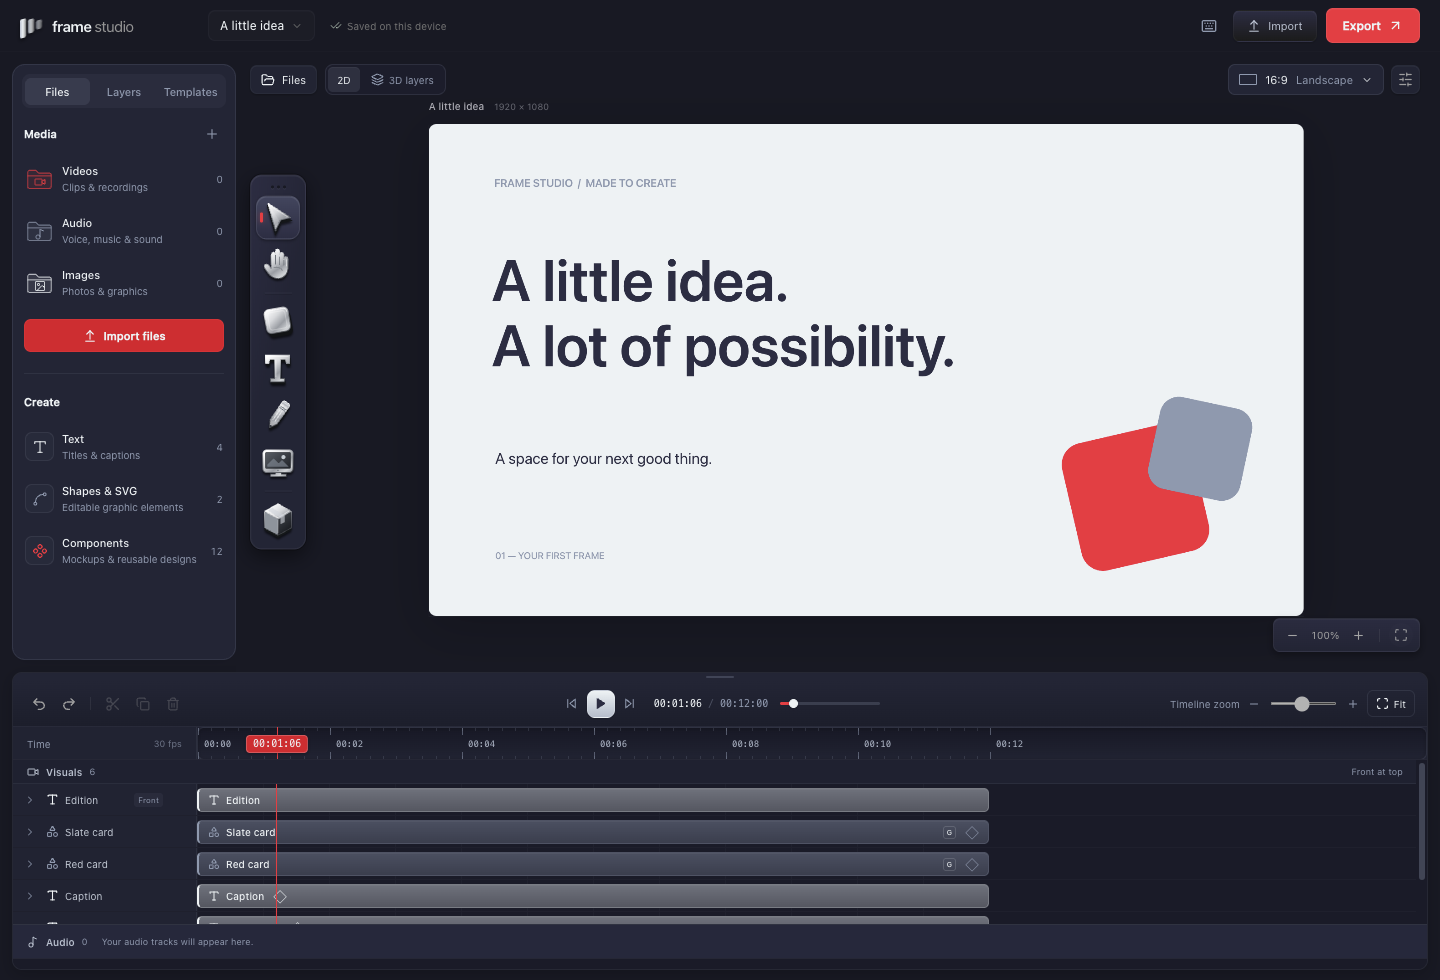
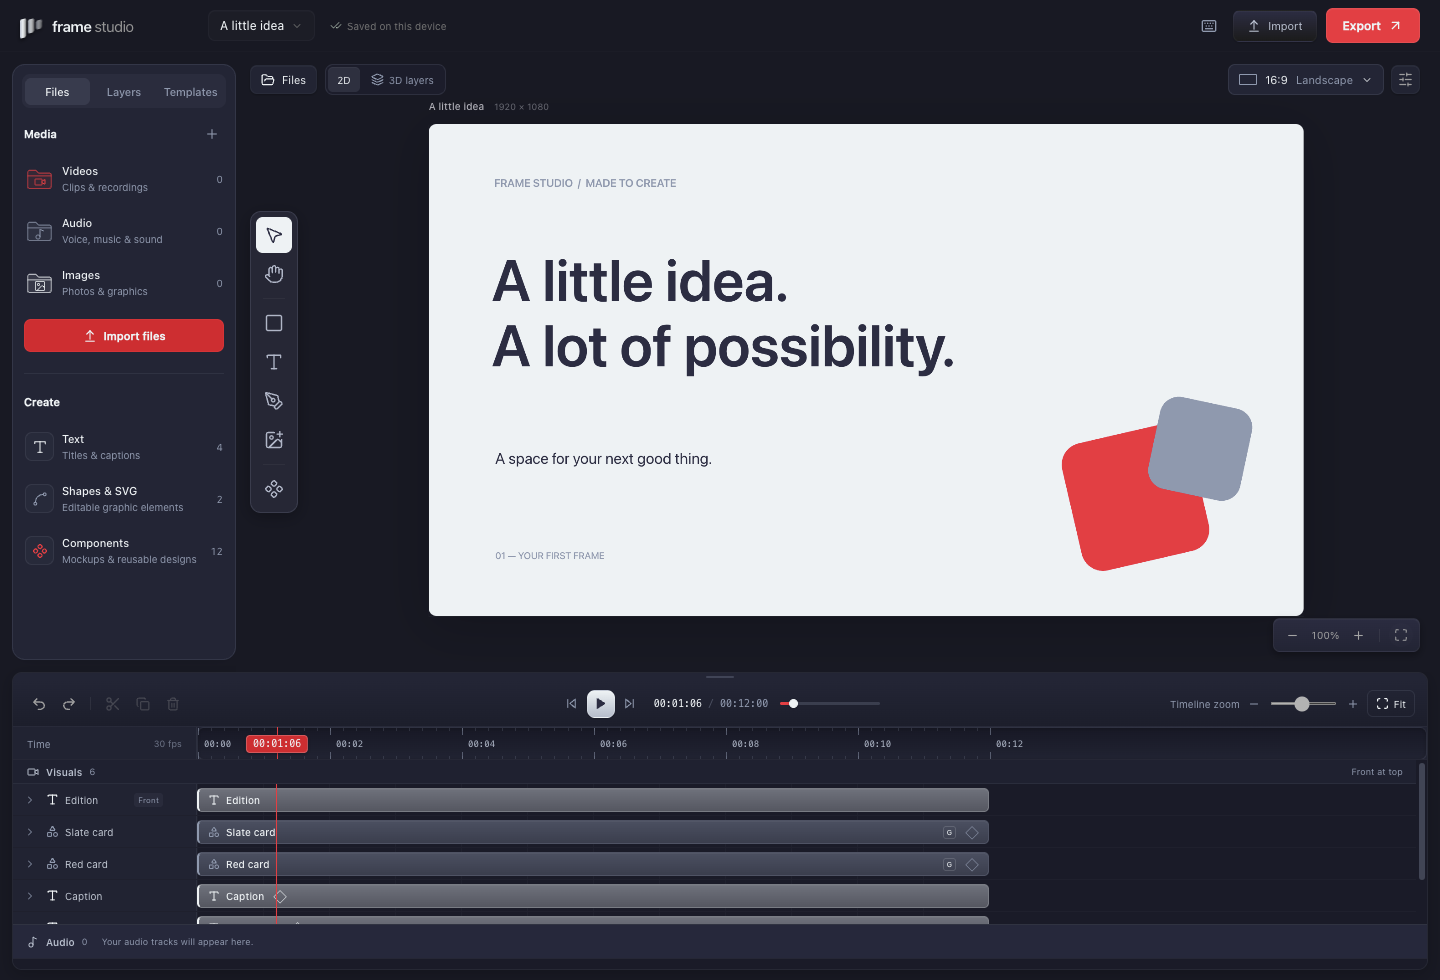
Document verified image tools and refresh native previews

Changed region(s): [[0.1562, 0.1837, 0.2188, 0.551]]

diff --git a/tests/editor.e2e.ts b/tests/editor.e2e.ts
@@ -247,7 +247,7 @@ test('imports SVG pieces and edits one without changing the other', async ({ pag
   await page.getByRole('tab', { name: 'Layers', exact: true }).click();
   await page.getByRole('button', { name: 'Badge dot', exact: true }).click();
   await page.getByRole('spinbutton', { name: 'X', exact: true }).fill('500');
-  await page.getByLabel('Element color').fill('#112233');
+  await page.getByLabel('Element color', { exact: true }).fill('#112233');
 
   const saved = await saveProject(page);
   const pieces = saved.layers.filter((layer) => layer.kind === 'svg');
@@ -1509,7 +1509,8 @@ test('image color replacement preserves source and unrelated pixels with exact h
 test('locked image tools cannot modify the image', async ({ page }) => {
   const fixture = await imageToolsFixture(page, true);
   await openProjectFixture(page, fixture);
-  await page.getByRole('button', { name: 'Timeline clip Two colors', exact: true }).click();
+  await page.getByRole('tab', { name: 'Layers', exact: true }).click();
+  await page.getByRole('button', { name: 'Two colors', exact: true }).click();
   const properties = page.getByRole('complementary', { name: 'Properties', exact: true });
   await expect(
     properties.getByRole('button', { name: 'Ellipse mask', exact: true }),

diff --git a/docs/project-format.md b/docs/project-format.md
@@ -39,9 +39,7 @@ The selected preset name and strength are inferred from the stored values. Match
 
 Motion recipe names likewise do not add fields. None, Gentle fade, Float, Slide, and Pop set `animation`, `animationDuration`, `animationDelay`, `animationEasing`, and `exitDuration`. Float is the UI recipe for the existing `rise` animation. A recipe replaces these motion settings without changing layer start, duration, media offset, source, geometry, color, or audio. Pop is restricted to a single selected visual element in the inspector; the flat model has no shared group-scale pivot.
 
-## Assets and portability
-
-### Optional visual-tool fields (alpha 7)
+## Optional visual-tool fields (alpha 7)
 
 | Field               | Values / meaning                                                             |
 | ------------------- | ---------------------------------------------------------------------------- |
@@ -57,6 +55,8 @@ Effect colors are six-digit hex values. Tolerance, softness, and strength are fi
 An absent `mask` preserves older image/video corner-radius clipping. Explicit `none` removes the mask; an explicit shape replaces that legacy clip. Other visual kinds support the same masks and flips. Audio does not accept visual-effect fields. New fields survive duplication, saved components, and splitting through the ordinary layer model.
 
 Schema version remains 1 because older projects need no migration. Alpha 7 can read older files; older app versions with strict unknown-field validation cannot open projects using these new fields.
+
+## Assets and portability
 
 Imported media is embedded as data URLs, and the initial import limit is **50 MB per file**. Project loading has a **100 MB total file limit**. This makes a saved project self-contained for the supported media, at the cost of larger JSON files and higher memory use. Base64 encoding adds approximately one-third to binary media size before other project overhead. Duplicate layers and saved components may repeat media data in serialized JSON, so the project limit can be reached with fewer than 100 MB of original media.
 

diff --git a/docs/visual-tools.md b/docs/visual-tools.md
@@ -2,6 +2,8 @@
 
 These tools edit the selected layer and participate in Undo/Redo. They run locally and keep the original imported image intact.
 
+![Background removal and color replacement in Frame Studio](images/image-tools.png)
+
 ## Mask and flip
 
 Select one unlocked visual element, then open **Design**. Choose None, Rectangle, Rounded, Ellipse, or Diamond. Inset brings the mask inward equally from each edge; Roundness adjusts the Rounded mask. These are local bounds, so the mask follows the element when it moves, rotates, or animates. Horizontal and vertical flips use its center and leave its placement and clip timing unchanged.
